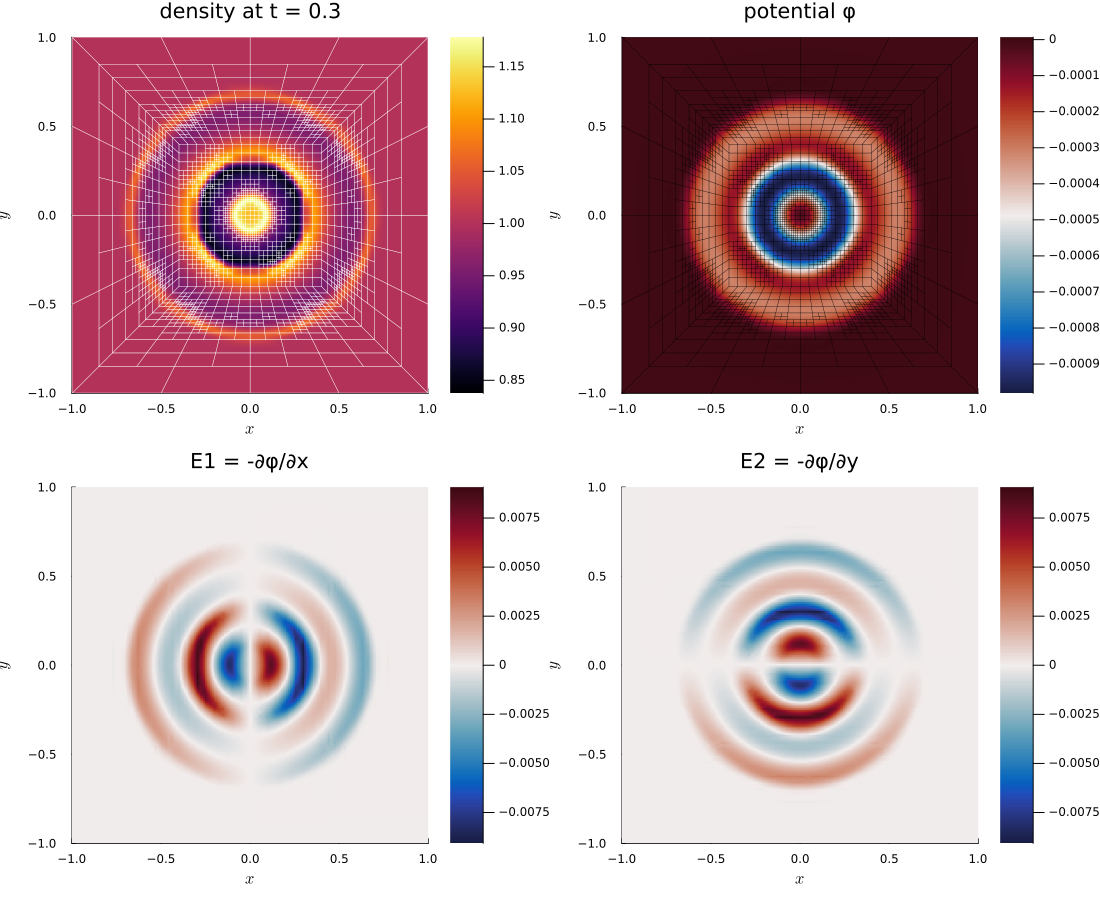
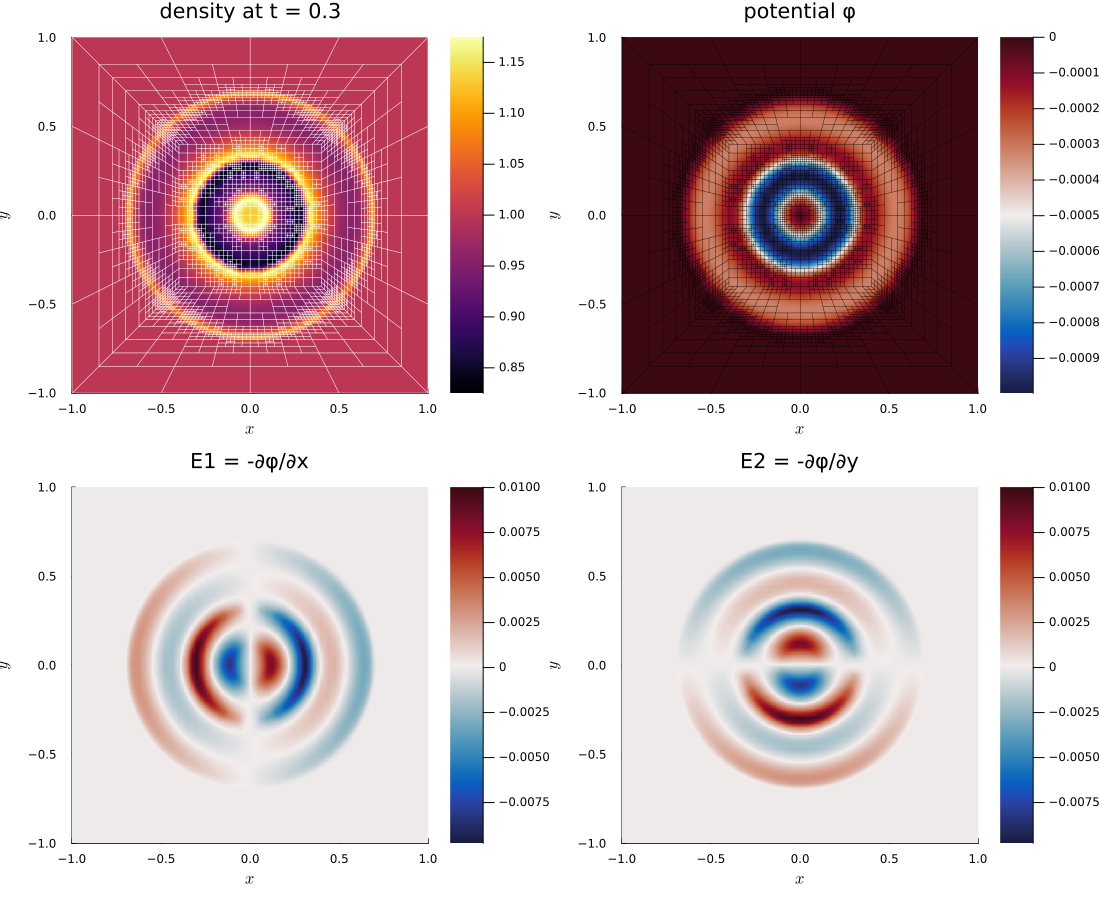
Tune the AMR of the coupled example and rename elliptic_spd
AMR study for coupling = 300 against a coupled uniform run at level 5: with
the thresholds 0.015 / 0.05, the adaptive run is no more accurate than a
uniform run at level 4. The example now uses the thresholds 0.005 / 0.015 and
the interval 10 (up to about 4000 cells), which reduces the L1 error of the
density by a factor of about 3. The documentation shows the study, the new
figure, and the timings; the elixir test uses the new reference values.

`elliptic_symmetric` is renamed to `elliptic_spd`, since Cholesky requires a
symmetric positive definite matrix.

Claude-Session: https://claude.ai/code/session_012z9WcdZBo5ZADAuTs7qygM

diff --git a/docs/src/trixi_gridap_bridge.md b/docs/src/trixi_gridap_bridge.md
@@ -120,7 +120,7 @@ Dirichlet conditions is symmetric positive definite and can be factorized with C
 | [`transfer_dg_to_q2!`](@ref) | DG solution → node values (averaging, constraints) |
 | [`transfer_q2_to_dg!`](@ref), [`q2_value`](@ref), [`q2_gradient`](@ref) | node values → DG solution (injection, element-wise gradients) |
 | [`GridapCallback`](@ref), [`gridap_stage_update`](@ref) | finite element solves during the time integration |
-| [`elliptic_fields`](@ref), [`elliptic_sources`](@ref), [`elliptic_forms`](@ref), [`write_elliptic_solution`](@ref), [`elliptic_symmetric`](@ref), [`Q2Field`](@ref) | elliptic part of equations |
+| [`elliptic_fields`](@ref), [`elliptic_sources`](@ref), [`elliptic_forms`](@ref), [`write_elliptic_solution`](@ref), [`elliptic_spd`](@ref), [`Q2Field`](@ref) | elliptic part of equations |
 | [`CompressibleEulerPoissonEquations2D`](@ref), [`source_terms_euler_poisson`](@ref) | Euler equations with electrostatic potential |
 
 The Gridap.jl parts are a package extension of AeroTrixi.jl, which is loaded together with
@@ -140,7 +140,7 @@ an elliptic part implement, dispatched on their type:
   of fields;
 - [`write_elliptic_solution`](@ref)`(u, q, x, equations)`: the new state at a DG node from
   the solution;
-- optionally [`elliptic_symmetric`](@ref)`(equations)`: `true` for a symmetric positive
+- optionally [`elliptic_spd`](@ref)`(equations)`: `true` for a symmetric positive
   definite matrix (Cholesky instead of LU).
 
 The weak forms use Gridap.jl notation, but the equations do not depend on Gridap.jl: the
@@ -149,7 +149,7 @@ operators from it. For the Euler-Poisson equations, all parts are in the file of
 equations, `src/equations/compressible_euler_poisson_2d.jl`:
 ```julia
 elliptic_fields(::CompressibleEulerPoissonEquations2D) = (phi = Q2Field(),)
-elliptic_symmetric(::CompressibleEulerPoissonEquations2D) = true
+elliptic_spd(::CompressibleEulerPoissonEquations2D) = true
 
 elliptic_sources(u, x, equations::CompressibleEulerPoissonEquations2D) =
     SVector(u[1] - equations.rho_0)
@@ -193,7 +193,7 @@ functions):
 
 After each mesh change, the [`GridapCallback`](@ref) assembles the matrix of the bilinear
 form of [`elliptic_forms`](@ref), with homogeneous Dirichlet conditions on the boundaries in
-`dirichlet_tags`, and factorizes it: with Cholesky if [`elliptic_symmetric`](@ref) is `true`,
+`dirichlet_tags`, and factorizes it: with Cholesky if [`elliptic_spd`](@ref) is `true`,
 with LU otherwise. The linear form must be affine in the sources; then the load vector is
 ``b = b_0 + \sum_k B_k f_k`` for the source values ``f_k`` at the nodes, and the callback also
 assembles ``b_0`` and the matrices ``B_k`` once per mesh (checked against a direct assembly
@@ -283,15 +283,15 @@ plot(p1, p2, p3, p4, layout = (2, 2), size = (1100, 900))
 
 All timings: Julia 1.13, one thread, after compilation (a short run first).
 
-**Example run.** 313 time steps up to `t = 0.3` (2324 cells at the end), mesh adaptation
-every 20 steps; 11.1 s in total:
+**Example run.** 315 time steps up to `t = 0.3` (3899 cells at the end), mesh adaptation
+every 10 steps; 16.1 s in total:
 
 | part | calls | time | per call |
 |---|---|---|---|
-| Trixi.jl right-hand side | 1570 | 5.4 s | 3.5 ms |
-| Gridap.jl stage updates (DG → Q2, solve, Q2 → DG) | 1560 | 3.3 s | 2.1 ms |
-| Gridap.jl rebuilds after mesh changes (incl. first) | 16 | 1.3 s | 82 ms |
-| mesh adaptation (Trixi.jl) | 15 | 0.3 s | 17 ms |
+| Trixi.jl right-hand side | 1580 | 7.1 s | 4.5 ms |
+| Gridap.jl stage updates (DG → Q2, solve, Q2 → DG) | 1570 | 4.3 s | 2.7 ms |
+| Gridap.jl rebuilds after mesh changes (incl. first) | 32 | 3.2 s | 99 ms |
+| mesh adaptation (Trixi.jl) | 31 | 0.7 s | 21 ms |
 
 A stage update costs about 60% of a right-hand side evaluation of Trixi.jl; its main part
 is the solve with the Cholesky factorization. A rebuild (node numbering, Gridap.jl model
@@ -315,23 +315,31 @@ after 6–11 solves (1–2 time steps with stage updates), compared with assembl
 vector for each solve.
 
 **Adaptation interval and refinement.** Since each mesh change also rebuilds the finite
-element data, the interval of the mesh adaptation matters. For the example, measured with
-`coupling = 0` (wall times of the whole run without the analysis and output callbacks; L1 error of the density at `t = 0.3` against a uniform run at the finest
-level 5 with 20480 cells):
+element data, the interval of the mesh adaptation matters, and so do the thresholds of the
+refinement. For the example (wall times of the whole run without the analysis and output
+callbacks; L1 error of the density at `t = 0.3` against a coupled uniform run at the finest
+level 5 with 20480 cells, which takes 87.6 s):
 
-| AMR interval | AMR thresholds | mean cells | time | rebuilds | L1 error |
+| AMR interval | AMR thresholds | mean / max cells | time | rebuilds | L1 error |
 |---|---|---|---|---|---|
-| 5 | 0.06 / 0.2 | 2722 | 19.8 s | 67 | 1.75e-2 |
-| 20 | 0.06 / 0.2 | 2858 | 14.2 s | 17 | 2.02e-2 |
-| 5 | 0.015 / 0.05 | 3381 | 23.5 s | 67 | 7.1e-3 |
-| 20 | 0.015 / 0.05 | 3483 | 16.2 s | 17 | 5.9e-3 |
-| 40 | 0.015 / 0.05 | 3430 | 14.4 s | 9 | 1.2e-2 |
+| 20 | 0.06 / 0.2 | 1641 / 2228 | 6.7 s | 15 | 2.7e-2 |
+| 5 | 0.015 / 0.05 | 2399 / 3056 | 15.7 s | 63 | 1.6e-2 |
+| 20 | 0.015 / 0.05 | 2426 / 3041 | 9.8 s | 16 | 1.6e-2 |
+| 5 | 0.005 / 0.015 | 3098 / 3986 | 20.2 s | 63 | 5.9e-3 |
+| **10** | **0.005 / 0.015** | **3088 / 4085** | **15.3 s** | **32** | **5.8e-3** |
+| 20 | 0.005 / 0.015 | 3067 / 3680 | 12.5 s | 16 | 7.1e-3 |
+| 40 | 0.005 / 0.015 | 2636 / 3380 | 10.1 s | 8 | 1.5e-2 |
+| 10 | 0.002 / 0.006 | 3403 / 4472 | 16.7 s | 32 | 4.1e-3 |
+| uniform level 4 | | 5120 | 8.7 s | | 1.5e-2 |
 
-Lower thresholds refine a wider region around the shock. With them, the mesh can be adapted
-less often without losing the shock, which reduces the rebuilds; beyond about 20 steps,
-the shock leaves the refined region between two adaptations. The example uses the interval
-20 with the lower thresholds. For comparison, the uniform run at level 5 (Euler equations
-only, without the Poisson problem) takes 38.6 s.
+With the coupling, the field spreads the density perturbations as waves, and the
+thresholds decide how much of them is resolved: with 0.015 / 0.05, the adaptive run is no
+more accurate than the uniform run at level 4, which is also faster, since the adaptive
+mesh needs the time step of level 5. Lower thresholds reduce the error by a factor of 3 to
+4. Between two adaptations, the refined region must still contain the waves; beyond about
+10–20 steps, the error grows again (interval 40). The example uses the thresholds
+0.005 / 0.015 and the interval 10, with up to about 4000 cells. Raising the middle level
+from 3 to 4 (not shown) changes little.
 
 ## Limitations and outlook
 
